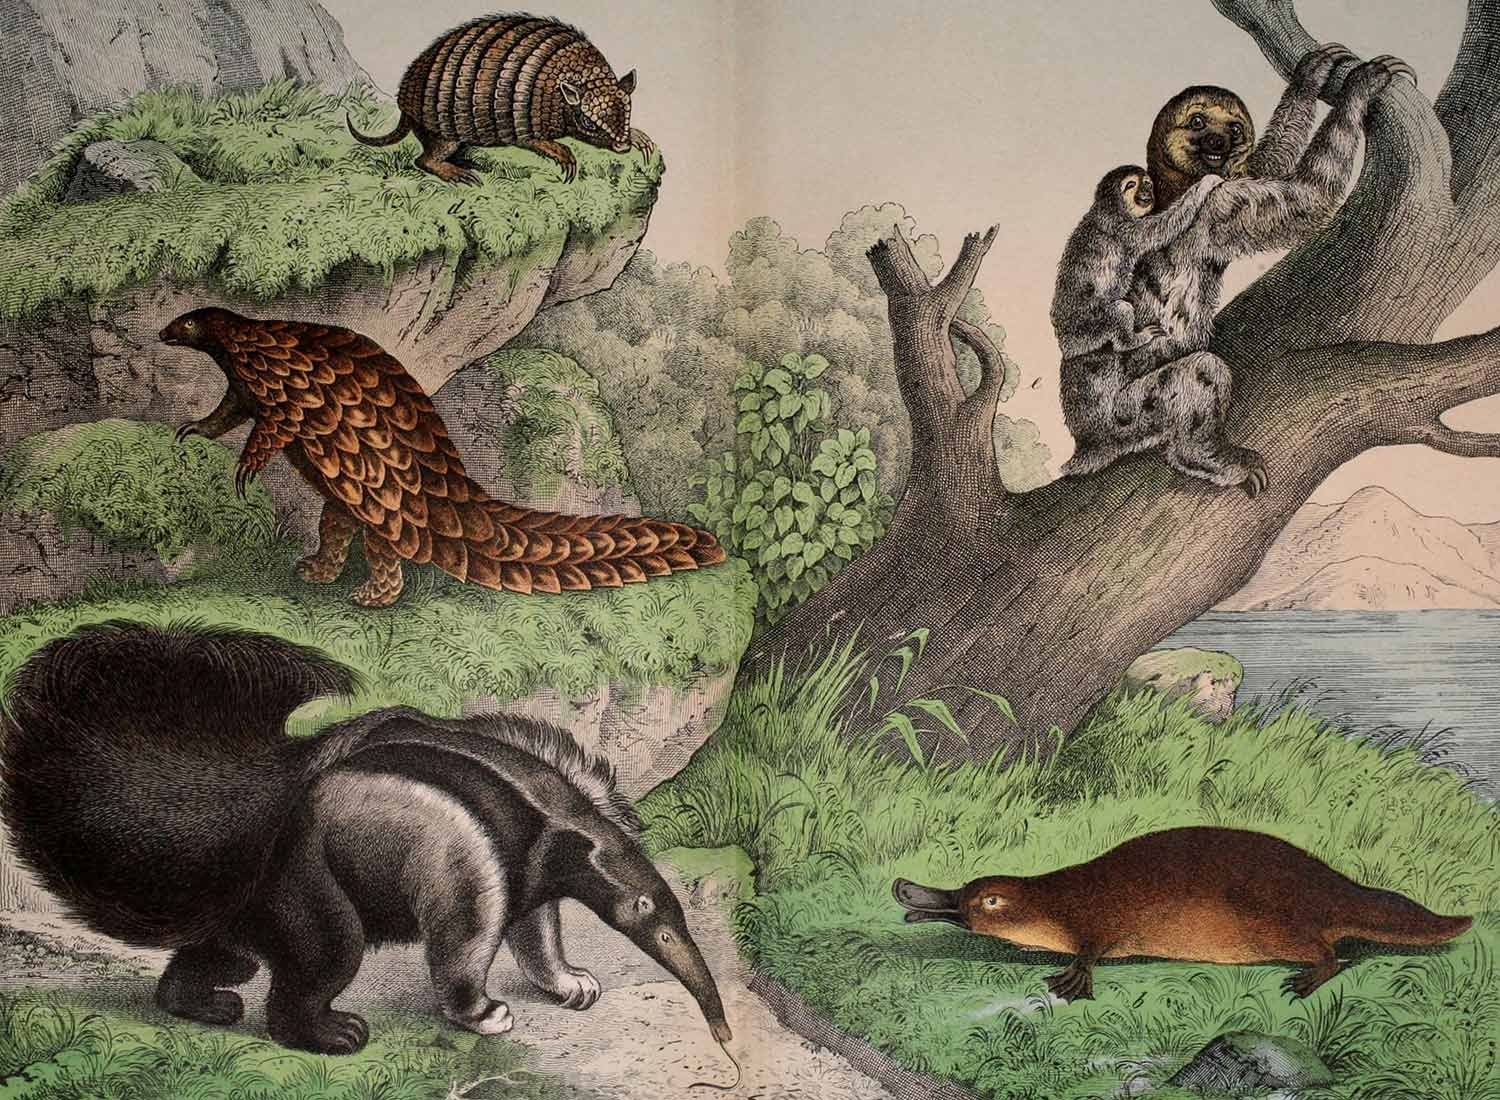
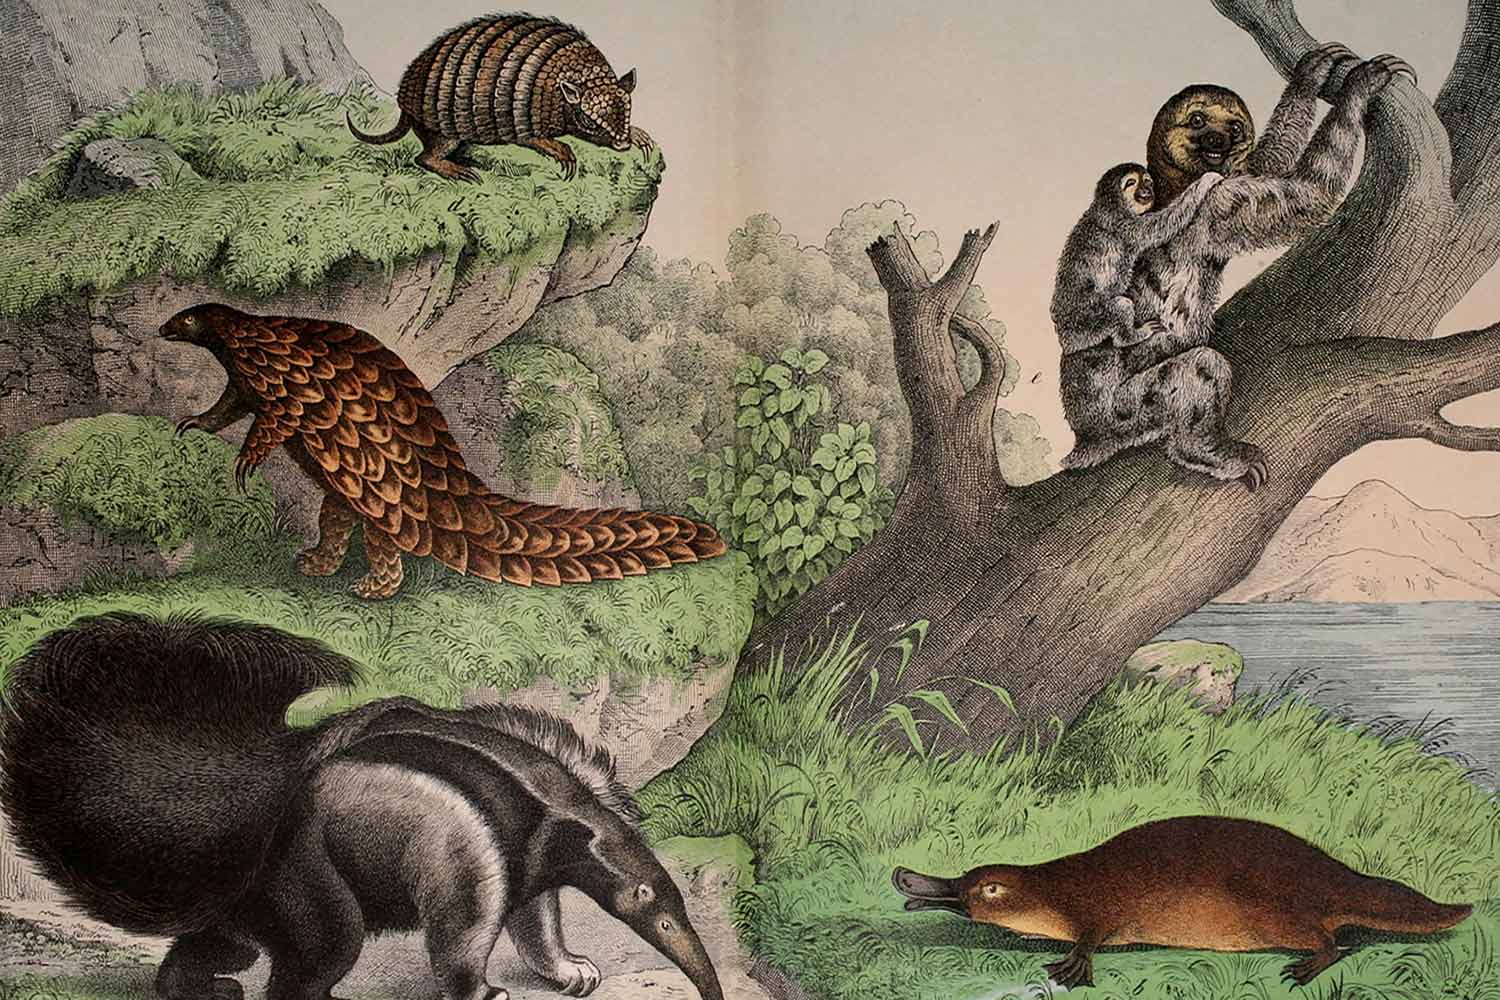
Fix the image sizes

diff --git a/index.html b/index.html
@@ -21,7 +21,7 @@
       <p>Sloths are mammals classified in the families <span class="italic">Megalonychidae</span> (two-toed sloths) and <span class="italic">Bradypodidae</span> (three-toed sloths), including six extant species. They are named after the capital sin of sloth because they seem slow and lazy at first glance; however, their usual idleness is due to metabolic adaptations for conserving energy.</p>
       <p>Aside from their surprising speed during emergency flights from predators, other notable traits of sloths include their strong body and their ability to host symbiotic algae on their furs.</p>
 
-      <figure class="img-2 embed embed-3by2">
+      <figure class="img-2">
         <img class="img-flex push-1-4" src="images/sloth-2.jpg" alt="">
         <figcaption class="first-cap milli push-1-4"><span class="italic">Three-toed sloth featured with an ant-eater, a platypus & armadillos.</span></figcaption>
       </figure>
@@ -29,8 +29,8 @@
       <p>They are classified in the order Pilosa because they are related to anteaters, which sport a similar set of specialized claws. Extinct sloth species include many megafaunal ground sloths, some of which attained the size of elephants, as well as a few species of marine sloths. Extant sloths are medium-sized arboreal (tree-dwelling) residents of the jungles of Central and South America.</p>
       <p>Sloths make good habitats for other organisms, and a single sloth may be home to moths, beetles, cockroaches, fungi, ciliates, and algae.</p>
 
-      <figure class="img-3 embed embed-3by2 push-0">
-        <img class="img-flex push-1-2" src="images/sloth-3.jpg" alt="">
+      <figure class="push-0">
+        <img class="third-img img-flex push-1-2" src="images/sloth-3.jpg" alt="">
         <figcaption class="pad-b-1-2 micro"><a href="https://en.wikipedia.org/wiki/Sloth">https://en.wikipedia.org/wiki/Sloth</a></figcaption>
       </figure>
     </div>

diff --git a/css/main.css b/css/main.css
@@ -21,8 +21,8 @@ h1 {
   color: #fff;
   font-weight: 600;
   top: 3%;
-  left: 2.5%;
-  text-shadow: 3px 3px #000;
+  left: 2%;
+  text-shadow: 2px 2px #000;
 }
 
 .img-1,
@@ -30,13 +30,18 @@ h1 {
 .img-3 {
   border-top: 2px solid rgb(123, 114, 107);
   border-bottom: 2px solid rgb(123, 114, 107);
+  padding: .18rem 0;
+}
+
+.third-img {
+  border-top: 2px solid rgb(123, 114, 107);
+  border-bottom: 2px solid rgb(123, 114, 107);
   padding: .19rem 0;
 }
 
 .banner {
   background-image: linear-gradient(to bottom, rgba(28, 14, 0, .75), rgba(28, 14, 0, 0)), url("../images/sloth-1.jpg");
-  background-size: 100% 20%, cover;
-  background-position: center top;
+  background-size: 100% 30%, cover;
   background-repeat: no-repeat;
 }
 
